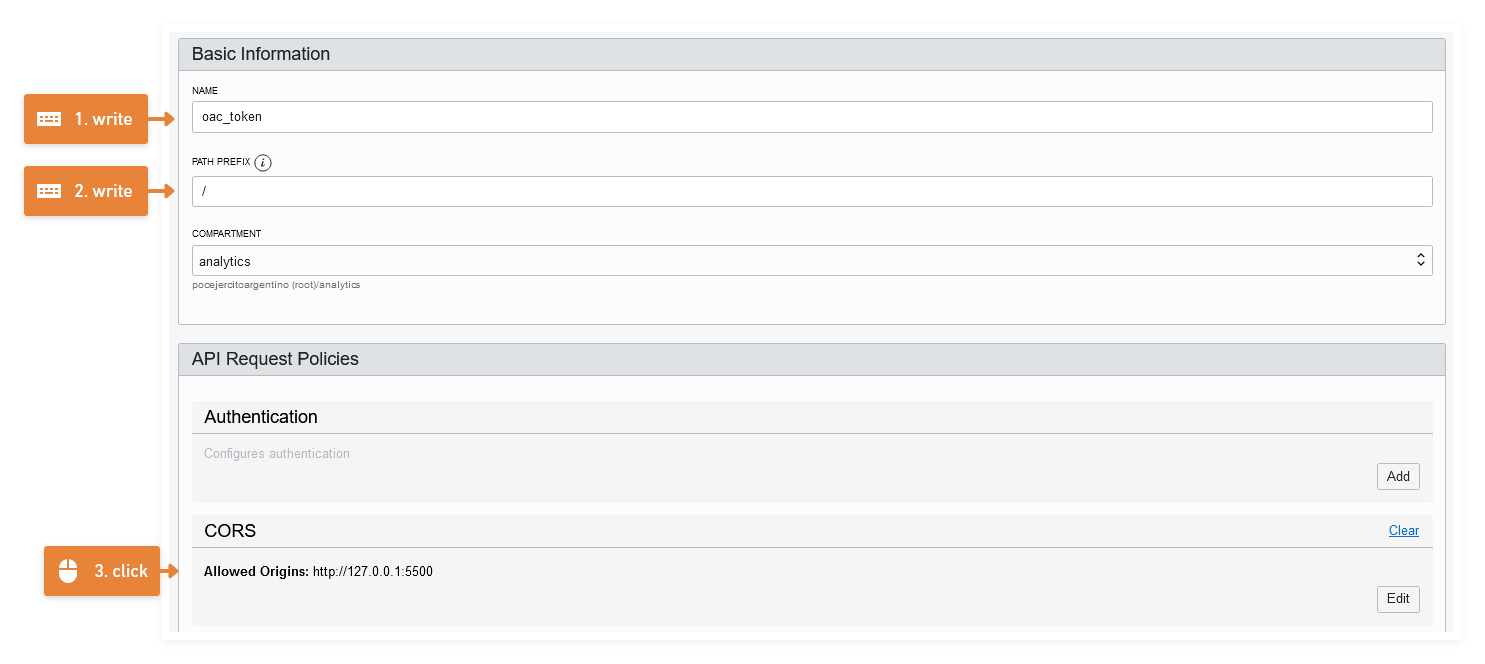
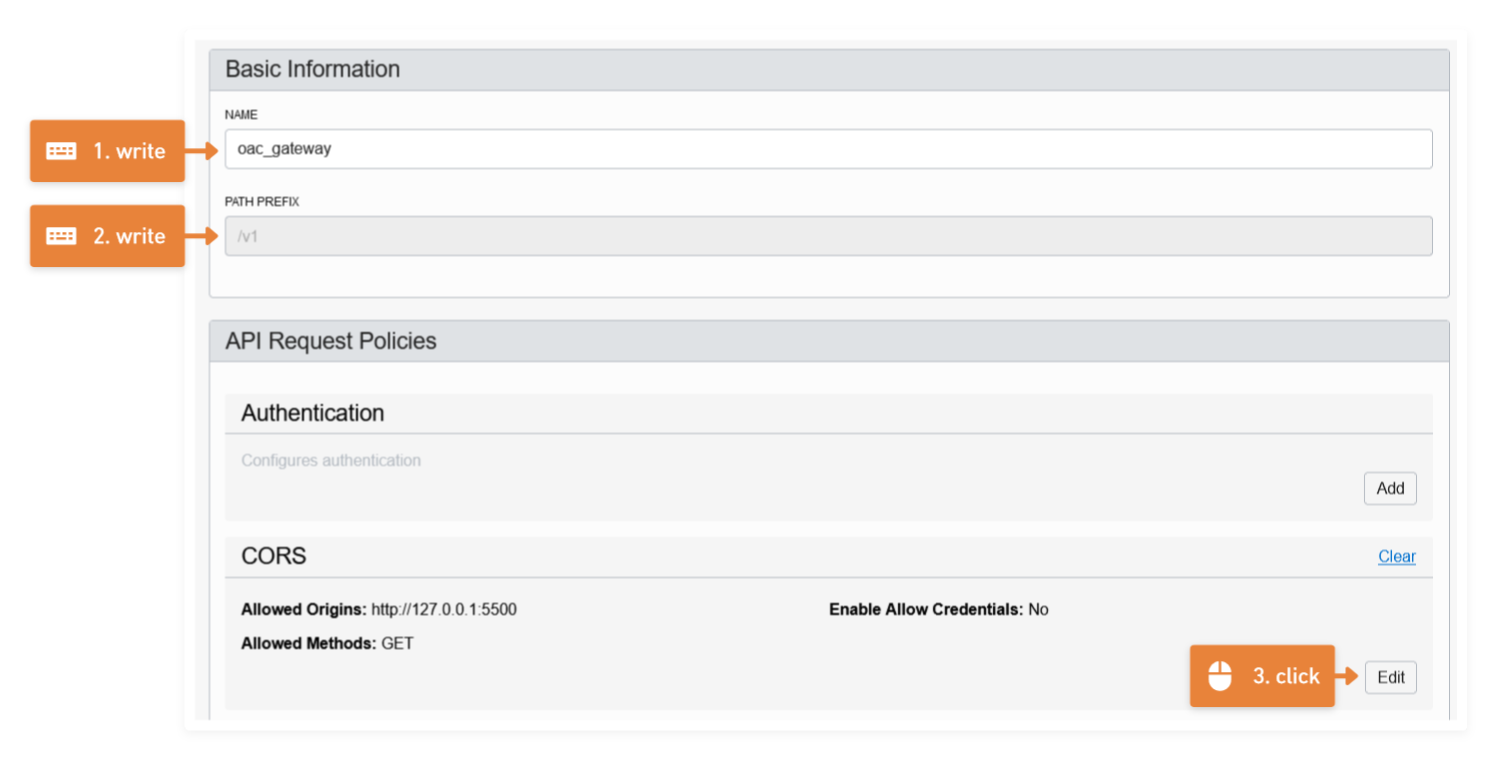
details added

diff --git a/parte-iii/final/index.html b/parte-iii/final/index.html
@@ -13,7 +13,7 @@
     </body>
     <script src="https://oac-grgqvoahscvk-gr.analytics.ocp.oraclecloud.com/public/dv/v1/embedding/standalone/embedding.js" type="application/javascript"></script>
     <script>
-        var Url = 'https://lbx2s2aocvq72h5ztcog6bjhhe.apigateway.sa-saopaulo-1.oci.customer-oci.com/v2/token';
+        var Url = 'https://knooaaqzrwsvychkedrgdlkjzy.apigateway.sa-saopaulo-1.oci.customer-oci.com/v1/token';
         var token_request = new XMLHttpRequest();
         token_request.open("GET", Url, false);
         token_request.send(null);

diff --git a/parte-iii/README.md b/parte-iii/README.md
@@ -1,10 +1,10 @@
 # Automatizar el Token
 
-En esta ultima parte vamos a automatizar la generación del token usando Oracle Functions. Y como requisito previo debemos tener un `compartment` y una `Virtual Cloud Network (VCN)` en la cual trabajar. Si ya tienes esos componentes definidos puedes ir directo al paso 1.
+En esta última parte vamos a automatizar la generación del token usando Oracle Functions y como requisito previo debemos tener un `compartment` y una `Virtual Cloud Network (VCN)` en la cual trabajar y si ya tienes estos componentes definidos, entonces, puedes ir directo al paso 1.
 
 ## 0. Setup del compartment y VCN en OCI
 
-Primero, el compartment o compartimiento en español, es simplemente una forma de agrupar nuestros recursos en la nube, ya que desta forma podremos auditar y administrar nuestros recursos. Debes ir a:
+Primero, el compartment (compartimiento) es simplemente una forma de agrupar nuestros recursos en la nube, ya que, de esta forma podremos auditar y administrar nuestros recursos. Para crearlo debes ir a:
 
 ![img](media/funtions-0.png)
 
@@ -16,15 +16,23 @@ Luego debes ir a crear la VCN:
 
 ![img](media/funtions-2.png)
 
-Asegurate de estar en el compartment correcto `Analytics` y puedes usar el `wizard` para crear rápidamente una VCN.
+Asegurate de estar en el compartment correcto `analyticsAndFunctions` y puedes usar el `wizard` para crear rápidamente una VCN.
 
 ![img](media/funtions-3.png)
 
-Deja las opciones por defecto e inicia el wizzard en el cual solo debes llenar el campo `VCN name` con el nombre de tu preferencia y que nosotros llamaremos `functionsvcn`
+En el wizzard debes llenar el campo `VCN name` con el nombre de tu preferencia como por ejemplo `analyticsAndFunctionsVcn` y dejando los demás parámetros por defecto puedes dar click en siguiente y crear.
 
 ![img](media/funtions-4.png)
 
-Dejando los demás parámetros por defecto puedes dar click en siguiente y crear.
+Una vez que esté lista haremos click en `View Virtual Cloud Network` y es un buen momento para editar en `Security List` -> `Default Security List for analyticsAndFunctionsVcn` y crear una nueva regla de ingreso:
+
+- Stateless: No
+- Source CIDR: 0.0.0.0/0
+- IP Protocol: TCP
+- Source Port Range: All
+- Destination Port Range: 443
+
+Esta regla será necesaria para que el Gateway que creemos en próximos pasos pueda recibir peticiones.
 
 ## 1. Oracle Function para crear un Token
 
@@ -32,34 +40,42 @@ Debemos ir a functions desde la consola de OCI:
 
 ![img](media/funtions-5.png)
 
-Allí debes crear una applicación y verificar que nosotros llamaremos `apptoken` y dentro de ella crearemos la función que creará nuestro token y la posicionaremos en la subnet pública de la vcn.
+Allí debemos chequear estar en el compartment correcto `analyticsAndFunctions` y crear una nueva applicación que nosotros llamaremos `tokenapp` y dentro de ella crearemos la función que creará nuestro token y la posicionaremos en la subnet pública de la vcn.
 
 ![img](media/funtions-6.png)
 
-Este paso debes puedes seguir el paso a paso del `Cloud Shell Setup`, tomando en cuenta que:
+Puedes seguir el paso a paso del `Cloud Shell Setup`, tomando como referencia:
 
 ```shell
-fn list contextfn list context
+#1 - Haz click para abrir la consola
+#2
+fn list context
 fn use context sa-saopaulo-1
+#3
 fn update context oracle.compartment-id ocid1.compartment.oc1..aaaaaaaagdzkgwhhrk7ysjfoyi7pz7eygs4rqrqjfccye6zc667rd6rl5bra
-#cambia el valor de [OCIR-REPO] arbitrariamente
-fn update context registry gru.ocir.io/grgqvoahscvk/oactoken
-# usaremos node & el nombre sera oacfunction  
-fn init --runtime node oacfunction
-cd oacfunction
-fn -v deploy --app apptoken
-fn invoke apptoken oacfunction
+#4 cambia el valor de [OCIR-REPO] arbitrariamente
+fn update context registry gru.ocir.io/grgqvoahscvk/tokenapprepo
+#5 - genera un Auth Token y guardalo en un lugar seguro
+#6 -  autentificate con el token
+docker login -u 'grgqvoahscvk/oracleidentitycloudservice/pablo.sierra.ocanto@oracle.com' gru.ocir.io
+#7
+fn list apps
+# node & oacfunction  
+fn init --runtime node tokenfunction
+cd tokenfunction
+fn -v deploy --app tokenapp
+fn invoke tokenapp tokenfunction
 ```
 
-En el código anterior lo que hacemos es usa `nodejs` como lenguaje de programación y creamos una función llamada `oacfunction` y luego hacemos el deploy, en ese sentido debiste ver un `{"message":"Hello World"}` que se mostró en la pantalla de la consola.
+En el script anterior definimos `nodejs` como lenguaje de programación y creamos una función llamada `tokenfunction` y hacemos el deploy de nuestra aplicación `tokenapp`, en ese sentido debiste ver un `{"message":"Hello World"}` que se mostró en la pantalla de la consola.
 
-Si en este momento desde la consola usas el comando `ls` veras que se crearon tres archivos dentro de `oacfunction`:
+Si en este momento desde la consola usas el comando `ls` verás que se crearon tres archivos dentro de `tokenfunction`:
 
 - func.js
 - func.yaml  
 - package.json
 
-En el `func.js` estará nuestra el código de nuestra función en el `package.json` estarán las dependencias para que nuestro codigo funciones y el `func.yaml` estaran unos parámetros que `fn` usa para dockerizar nuestra función.
+En el `func.js` estará el código de nuestra función, en el `package.json` estarán las dependencias y el `func.yaml` está unos parámetros que `fn` usa para dockerizar nuestra función.
 
 Si sabes usar `vi` puedes usar el comando `vi funct.js` y verás el siguiente código:
 
@@ -76,13 +92,13 @@ fdk.handle(function(input){
 })
 ```
 
-Y ese fue el código que se ejecutó cuando lanzamos el comando `fn invoke apptoken oacfunction`, entonces, lo que haremos será sobreescribir ese código para que nos cree un token.
+Ese fue el código que se ejecutó cuando lanzamos el comando `fn invoke tokenapp tokenfunction`, entonces, lo que haremos será sobreescribir ese código para que nos cree un token.
 
 **nota** si no sabes usar `vi` (:c) puedes crear un archivo local en tu pc que se llame `func.js` y luego cargarlo con la opción de la consola. Debes tomar en cuenta que el archivo se cargara en el root por lo que debes moverte usando el comando `..` y luego usar el `mv` para mover el archivo dentro de la carpeta `oacfunction`.
 
 ![img](media/funtions-7.png)
 
-Luego el código base que usaremos será:
+El código base para el `func.js` será:
 
 ```javascript
 // This is SAMPLE CODE illustrating how to obtain a token from IDCS using Oracle Functions service
@@ -120,7 +136,43 @@ fdk.handle(async function(){
 });
 ```
 
-Debes editar los parametros `url`, `headers` y `details` con los mismos datos que usaste para generar el token desde la consola.
+Debes editar los parametros `url`, `headers` y `details` con los mismos datos que usaste para generar el token desde la consola. En nuestro caso queda:
+
+```javascript
+// This is SAMPLE CODE illustrating how to obtain a token from IDCS using Oracle Functions service
+const fdk=require('@fnproject/fdk');
+const fetch = require('node-fetch');
+
+fdk.handle(async function(){
+    var url ='https://idcs-28f7aa1618d04f7ab72e708aaf975a7b.identity.oraclecloud.com/oauth2/v1/token';
+    var headers = {
+        "Content-Type": "application/x-www-form-urlencoded;charset=UTF-8",
+        "authorization": "Basic M2JlNmIwNDg5M2RkNDM5M2JiZWQ5YzcyZWY3Zjg4OTU6ZTlkNWYyZjMtOTRjMS00YzA2LWExNDgtOWY5YWVmNWVkMzBh"
+    };
+
+    let details = {
+        "grant_type": "password",
+        "username": "oac",
+        "password": "!PASSWORD!",
+        "scope": "https://w32jtlztl3wgffrgahfcx26gqa27dgua.analytics.ocp.oraclecloud.comurn:opc:resource:consumer::all"
+    };
+    let formBody = [];
+    
+    for (let property in details) {
+        let encodedKey = encodeURIComponent(property);
+        let encodedValue = encodeURIComponent(details[property]);
+        formBody.push(encodedKey + "=" + encodedValue);
+        console.log(formBody);
+    };
+
+    formBody = formBody.join("&");
+    console.log(formBody);
+    const response = await fetch(url, { method: 'POST', headers: headers, body: formBody});
+    const data = response.json();
+    
+    return data;
+});
+```
 
 También debes actualizar el `package.json` con las siguientes dependencias:
 
@@ -143,57 +195,59 @@ También debes actualizar el `package.json` con las siguientes dependencias:
 }
 ```
 
-Si tienes dudas, puedes ver un [ejemplo del código](parte-iii\functions) y cuando termines de actualizar los dos archivos
+Si tienes dudas, puedes ver un [ejemplo del código](functions/) y cuando termines de actualizar los dos archivos
 debes hacer un nuevo deploy:
 
 ```shell
-fn -v deploy --app apptoken
+fn -v deploy --app tokenapp
 ```
 
-Y si vuelves a invocar a la función `fn invoke apptoken oacfunction` recibirás el token.
+Y si vuelves a invocar a la función `fn invoke tokenapp tokenfunction` recibirás el token.
 
 ## 2. Crear un Api gateway para invocar nuestra Funcion
 
-El siguiente paso sera crear un `END POINT` al cual llamaremos para llamar a nuestra función, para ello crearemos un `API GATEWAY`:
+El siguiente paso sera crear un `END POINT` al cual llamaremos para invocar nuestra función, para ello crearemos un `GATEWAY`:
 
 ![img](media/api-1.png)
 
-Allí haremos click en `GATEWAY`, escribiremos un nombre `functionsgateway` también seleccionaremos que sea de tipo `Public` y la crearemos en la `Subnet Pública` y le damos crear.
+Posicionados en `Gateway` daremos click en `Create Gateway`, escribiremos un nombre `functionsgateway` seleccionaremos que sea de tipo `Public` y la crearemos en la `Subnet Pública` y le damos crear.
 
 Tardará unos minutos en crearse y cuanto termine iremos a `Deployments`.
 
 ![img](media/api-2.png)
 
-En la configuración básica debemos definir un nombre y una ruta básica para nuestrod esarrollo y es importante agregar los dominios seguros en CORS:
+En la configuración básica debemos definir un nombre `oac_gateway` y una ruta básica `/V1`para nuestro desarrollo y es importante agregar como dominio seguro `http://127.0.0.1:550` en CORS con el metodo `GET`:
 
 ![img](media/api-3.png)
 
-Luego en Routes, creamos el END POINT para llamar a nuestra función:
+Damos click en siguiente y en Routes, creamos el END POINT para llamar a nuestra función:
 
 ![img](media/api-4.png)
 
-Para que nuestro gateway funcione correctamente:
+Damos click en siguiente y finalizar.
 
-Es importante editemos las reglas de seguridad de la VCN, en la Ingress RULES:
+Para que el Gateway pueda invocar Functions agregemos una nueva policy que puedes crear en el compartment `analyticsAndFunctions` en la que debes cambiar `<COMPARTMENT>` y `<OCID>` por tus valores:
 
-- Stateless: No
-- Source: 0.0.0.0
-- IP Protocol: TCP
-- Source Port Range: All
-- Destination Port Range: 443
-
-Y también que, agregemos una nueva policy cambiando el nombre del `compartment` y el `compartmentid`:
-
-```sh
+```shell
 #policy
-ALLOW any-user to use functions-family in compartment analytics where ALL {request.principal.type = 'ApiGateway', request.resource.compartment.id = 'ocid1.compartment.oc1..aaaaaaaa5jp2kvzdfbwlo3uftoxmsfubugvdfdfzf3tn4tsolk667sy57lqq'}
+ALLOW any-user to use functions-family in compartment <COMPARTMENT NAME> where ALL {request.principal.type = 'ApiGateway', request.resource.compartment.id = '<OCID>'}
 ```
 
-En este momento puedes usar el endpoint `https://lbx2s2aocvq72h5ztcog6bjhhe.apigateway.sa-saopaulo-1.oci.customer-oci.com/token` desde el navegador y obtendras el token.
+Quedando en nuestro caso:
+
+![img](media/api-5.png)
+
+En este momento puedes copiar el endpoint `https://knooaaqzrwsvychkedrgdlkjzy.apigateway.sa-saopaulo-1.oci.customer-oci.com/v1`:
+
+![img](media/api-6.png)
+
+Y agregarle el `/token` al final y probandolo desde el navegador te devolverá el token:
+
+![img](media/api-7.png)
 
 ## 3. Setup final de la página web
 
-Finalmente hacemos un setup de neustra página:
+Finalmente hacemos un [setup final](final/index.html) de nuestra página:
 
 ```html
 <!DOCTYPE html>
@@ -211,28 +265,26 @@ Finalmente hacemos un setup de neustra página:
     </body>
     <script src="https://oac-grgqvoahscvk-gr.analytics.ocp.oraclecloud.com/public/dv/v1/embedding/standalone/embedding.js" type="application/javascript"></script>
     <script>
-        var Url = 'https://lbx2s2aocvq72h5ztcog6bjhhe.apigateway.sa-saopaulo-1.oci.customer-oci.com/token';
+        var Url = 'https://knooaaqzrwsvychkedrgdlkjzy.apigateway.sa-saopaulo-1.oci.customer-oci.com/v1/token';
         var token_request = new XMLHttpRequest();
         token_request.open("GET", Url, false);
         token_request.send(null);
-        {
-            if (token_request.status = 200) {
-                var idcs_token = JSON.parse(token_request.response).access_token; 
-                requirejs(['jquery', 'knockout', 'obitech-application/application', 'ojs/ojcore', 'ojs/ojknockout', 'ojs/ojcomposite', 'jet-composites/oracle-dv/loader'],
-                    function ($, ko, application) {
-                        application.setSecurityConfig("token", {
-                            tokenAuthFunction:
-                                function () {
-                                    return idcs_token;
-                                }
-                        });
-                        ko.applyBindings();
-                    }
-                );
-            } else {
-                console.log(`error ${token_request.status} ${token_request.statusText}`)
-            }
-        }
+        if (token_request.status === 200) {
+            var idcs_token = JSON.parse(token_request.response).access_token; 
+            requirejs(['jquery', 'knockout', 'obitech-application/application', 'ojs/ojcore', 'ojs/ojknockout', 'ojs/ojcomposite', 'jet-composites/oracle-dv/loader'],
+                function ($, ko, application) {
+                    application.setSecurityConfig("token", {
+                        tokenAuthFunction:
+                            function () {
+                                return idcs_token;
+                            }
+                    });
+                    ko.applyBindings();
+                }
+            );
+        } else {
+            console.log(`error ${token_request.status} ${token_request.statusText}`)
+        };
     </script>
 </html>
 ```
